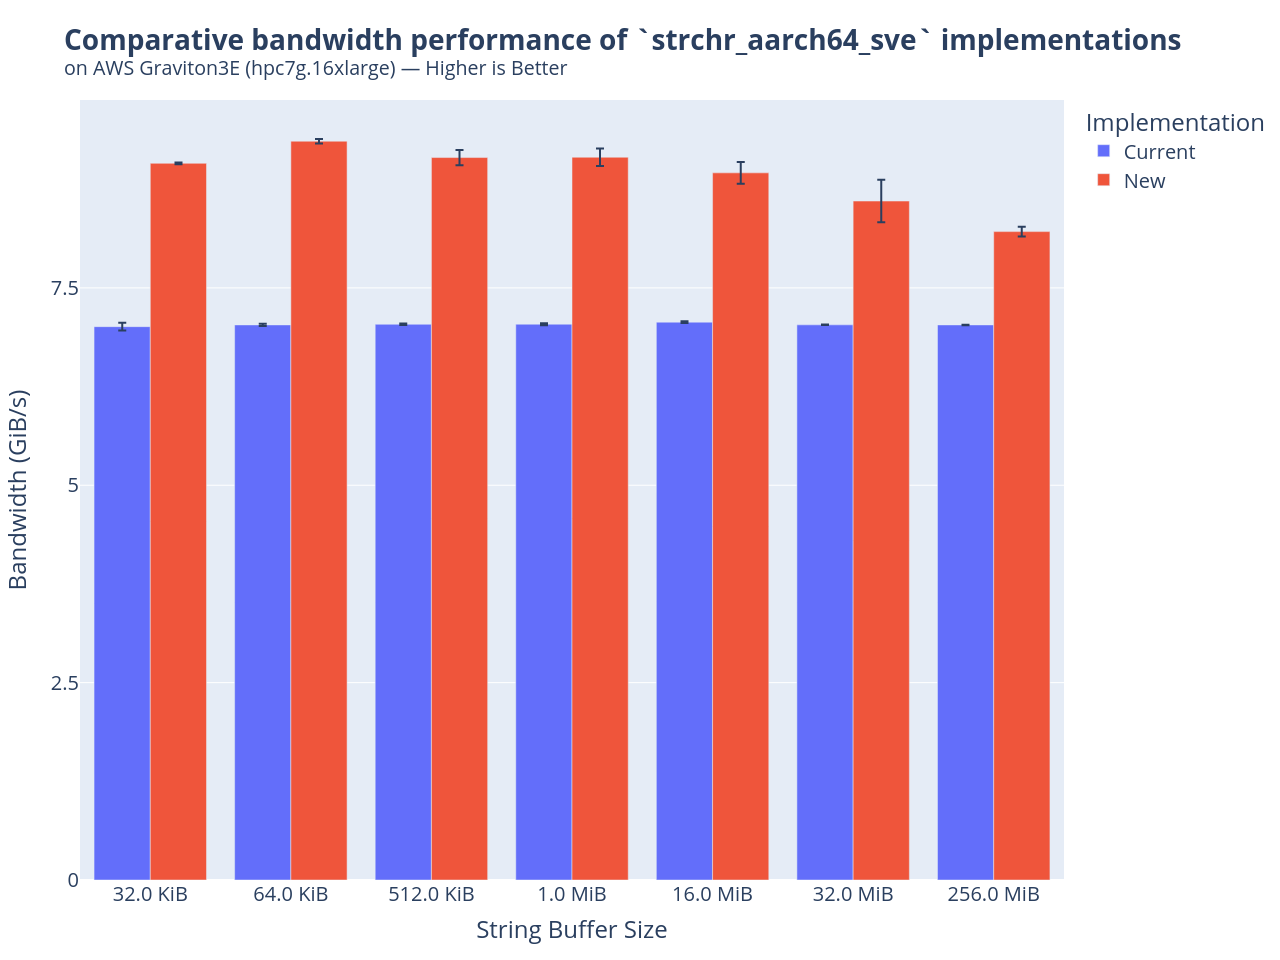
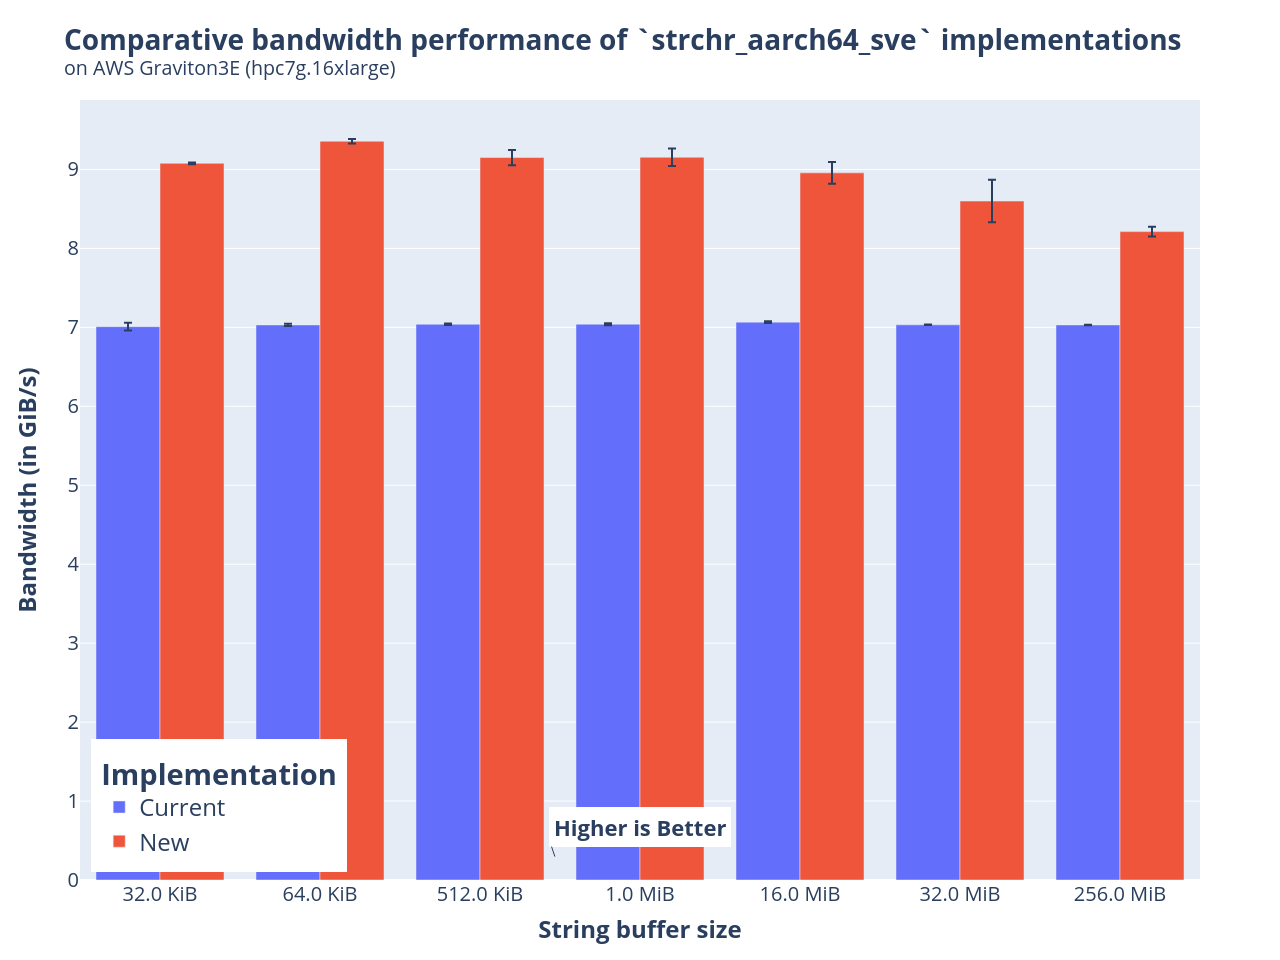
Updated BW plot script and results

diff --git a/scripts/plot_bw.py b/scripts/plot_bw.py
@@ -27,26 +27,45 @@ def plot_bandwidth(input_file, output_file):
     fig = px.bar(
         df,
         x='BUF SIZE',
-        y='Bandwidth (GiB/s)',
+        y='BW AVG GiB/s',
         error_y='BW STDEV GiB/s',
         color='Implementation',
         barmode='group',
         # text_auto=True,
         category_orders={'BUF SIZE': df['BUF SIZE'].unique()},
-        labels={'BUF SIZE': 'String Buffer Size'},
         title=f'<b>Comparative bandwidth performance of `{routine_name}_aarch64_sve` implementations</b>'
-            '<br><sup>on AWS Graviton3E (hpc7g.16xlarge) — Higher is Better</sup>'
-    )
-
-    fig.update_traces(
-        textposition='outside'
+            '<br><sup>on AWS Graviton3E (hpc7g.16xlarge)</sup>'
     )
 
     # Set the resolution of the figure
     fig.update_layout(
         font=dict(size=20),
         width=1280, height=960,
-        yaxis=dict(tickmode='linear', dtick=2.5)
+        yaxis=dict(tickmode='linear', dtick=1 if df['BW AVG GiB/s'].max() <= 10 else 2),
+        xaxis_title="<b>String buffer size</b>",
+        yaxis_title="<b>Bandwidth (in GiB/s)</b>",
+        legend=dict(
+            font=dict(size=24),
+            title="<b>Implementation</b>",
+            yanchor="bottom",
+            y=0.01,
+            xanchor="left",
+            x=0.01,
+            borderwidth=8,
+            bordercolor='white'
+        )
+    )
+
+    fig.add_annotation(
+        font=dict(size=22),
+        x=0.424,
+        y=0.03,
+        text="<b>Higher is Better</b>",
+        bgcolor='white',
+        borderwidth=8,
+        xanchor='left',
+        xref="paper",
+        yref="paper"
     )
 
     # Save the plot
